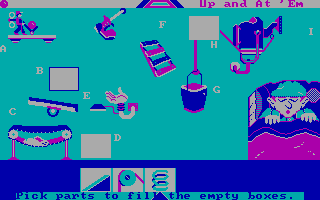
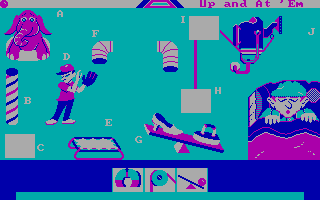
Layar bermain 64.000/64.000 lewat JALUR PEMAIN, dan kocokan ganda dibuang
Uji layar bermain kini menjalankan `main.Game` + `key()` seperti pemain
sungguhan (aturan kerja no. 7), bukan hanya merender dari modul inti:

  SELURUH LAYAR (modul inti)   64.000/64.000
  SELURUH LAYAR (jalur pemain) 64.000/64.000

⭐ BUG yang ketahuan karena jalur pemain diuji: `start_play()` mengocok palet
DUA KALI. Sesudah `pick.palet_mekanisme()` melakukan kocokan gim (dgn RNG
gim), masih ada `random.shuffle(self.palette)` peninggalan lama -- urutan yang
sudah benar diacak lagi dengan RNG Python.

Terukur: dgn seed gim 0x0e45 di titik `mkpal`, kocokan gim memberi record
[26, 2, 17]; sesudah kocokan Python jadi [17, 26, 2], dan strip meleset 738
piksel. Jalur "modul inti" tidak bisa melihatnya karena ia tidak lewat
main.py sama sekali.

BARIS PESAN -- posisinya kini DIKONFIRMASI, bukan diterka. `prompts()`
menulis seluruh pesannya di baris yang sama dengan strip cyan yang
dibersihkan `setupscr()`:
    text(S_ULANG, 0x10, 0xc0, 2)  text(S_COBA, 0x28, 0xc0, 2)  ...
jadi y = 0xc0, x mulai 0x10, WARNA 2 -- port dibetulkan dari warna 0.

Baru di work/emu.py: `CC_TRACEDOS=1` merekam keluaran teks DOS/BIOS
(INT 21h AH=02/09/40, INT 10h AH=0Eh/02h) plus histogram INT 21h per AH.
Bawaannya keluaran itu dibuang DIAM-DIAM. Hasil pengukuran: NOL peristiwa,
dan histogramnya hanya FCB I/O {0f, 10, 1a, 27} -- `printf` @0x6a48 tak pernah
terpanggil di jalur yang bisa dijangkau harness. Jadi pesan dalam permainan
belum bisa diadu piksel; posisinya diturunkan dari `prompts()`.
[…]

diff --git a/work/emu.py b/work/emu.py
@@ -89,6 +89,13 @@ def rdd(p): return struct.unpack_from("<I", bytes(uc.mem_read(p, 4)), 0)[0]
 def wrd(p, v): uc.mem_write(p, struct.pack("<I", v & 0xFFFFFFFF))
 
 state = {"int21": {}, "unhandled": [], "exit": False, "steps": 0}
+
+# CC_TRACEDOS=1 -- rekam keluaran teks DOS/BIOS (INT 21h AH=02/09/40,
+# INT 10h AH=0Eh/02h). Emulator ini TIDAK merender teks: glyph-nya datang dari
+# font ROM BIOS, yang tidak kita punya. Yang bisa diukur adalah ISI dan POSISI
+# KURSOR-nya, dan itu cukup untuk menentukan di mana pesan permainan muncul.
+_TDOS = os.environ.get("CC_TRACEDOS") == "1"
+_tdos_log = []
 keyq = []            # antrian byte keyboard (0x08 read)
 draws = []           # log: (major, minor, w, h, screen_x, screen_y)
 DGROUP = LOAD_SEG + 0x907
@@ -119,6 +126,11 @@ def hook_intr(uc, intno, user):
         state["exit"] = True; uc.emu_stop(); return
     if intno == 0x21:
         state["int21"][ah] = state["int21"].get(ah, 0) + 1
+        if _TDOS and ah == 0x40:            # write ke handle (stdout = 1)
+            _a = uc.reg_read(UC_X86_REG_DS) * 16 + uc.reg_read(UC_X86_REG_DX)
+            _n = uc.reg_read(UC_X86_REG_CX)
+            _tdos_log.append(("tulis_h%d" % uc.reg_read(UC_X86_REG_BX),
+                              bytes(uc.mem_read(_a, min(_n, 200))).decode("latin-1")))
         if ah == 0x4C:
             state["exit"] = True; uc.emu_stop(); return
         if ah == 0x30:  # DOS version
@@ -232,12 +244,35 @@ def hook_intr(uc, intno, user):
             wrd(p + 0x21, blk * 128 + cur)
             return
         if ah in (0x25, 0x35, 0x44, 0x09, 0x02, 0x48, 0x49, 0x4A, 0x19, 0x2C, 0x16):
+            # CC_TRACEDOS=1 -- catat KELUARAN TEKS DOS. Bawaannya dibuang diam-
+            # diam, dan itu membuat pesan dalam permainan (yang keluar lewat
+            # `printf()` MC.LIB) tak pernah terlihat di tangkapan VRAM. Kita
+            # tetap tidak MERENDER-nya (butuh font ROM BIOS yang tidak kita
+            # punya), tapi apa yang dicetak dan ke mana kursornya menunjuk bisa
+            # diukur.
+            if _TDOS and ah in (0x09, 0x02):
+                if ah == 0x02:
+                    _tdos_log.append(("chr", chr(uc.reg_read(UC_X86_REG_DX) & 0xFF)))
+                else:
+                    _a = uc.reg_read(UC_X86_REG_DS) * 16 + uc.reg_read(UC_X86_REG_DX)
+                    _b = bytes(uc.mem_read(_a, 200))
+                    _b = _b[:_b.find(b"$")] if b"$" in _b else _b
+                    _tdos_log.append(("str", _b.decode("latin-1")))
             uc.reg_write(UC_X86_REG_EFLAGS, uc.reg_read(UC_X86_REG_EFLAGS) & ~1)
             if ah == 0x48: uc.reg_write(UC_X86_REG_AX, 0x2000)
             return
         uc.reg_write(UC_X86_REG_EFLAGS, uc.reg_read(UC_X86_REG_EFLAGS) & ~1)
         return
     if intno == 0x10:
+        if _TDOS:
+            if ah == 0x0E:      # teletype: SATU karakter di posisi kursor
+                _tdos_log.append(("tty", chr(ax & 0xFF)))
+            elif ah == 0x02:    # set posisi kursor: DH = baris, DL = kolom
+                _dx = uc.reg_read(UC_X86_REG_DX)
+                _tdos_log.append(("kursor", (_dx >> 8, _dx & 0xFF)))
+            elif ah == 0x09 or ah == 0x0A:
+                _tdos_log.append(("tulis%d" % (uc.reg_read(UC_X86_REG_CX)),
+                                  chr(ax & 0xFF)))
         return
     if intno == 0x16:
         # keyboard: kembalikan ENTER agar maju
@@ -1223,3 +1258,19 @@ for k, pts in sorted(byptr.items(), key=lambda kv: -len(set(kv[1]))):
     uniq = list(dict.fromkeys(pts))
     if len(uniq) >= 4:
         print("  sptr=0x%04x w=%d h=%d  n=%d uniq=%d  %s" % (k[0], k[1], k[2], len(pts), len(uniq), uniq[:12]))
+
+if _TDOS:
+    # Ringkas: karakter tunggal berurutan digabung jadi satu baris supaya
+    # keluarannya terbaca.
+    print("INT 21h per AH:", {"%02x" % k: v for k, v in sorted(state["int21"].items())})
+    print("KELUARAN TEKS DOS/BIOS (%d peristiwa):" % len(_tdos_log))
+    _buf = ""
+    for _k, _v in _tdos_log:
+        if _k in ("chr", "tty"):
+            _buf += _v
+            continue
+        if _buf:
+            print("  teks: %r" % _buf); _buf = ""
+        print("  %-8s %r" % (_k, _v))
+    if _buf:
+        print("  teks: %r" % _buf)

diff --git a/work/test_play.py b/work/test_play.py
@@ -36,6 +36,7 @@ import os
 import subprocess
 import sys
 
+os.environ.setdefault("SDL_VIDEODRIVER", "dummy")
 sys.path.insert(0, os.path.join(os.path.dirname(__file__), "..", "port"))
 
 from PIL import Image                                          # noqa: E402
@@ -109,6 +110,51 @@ def cek(nama, dapat, harap):
     print("  %-34s %7s/%-7s %s" % (nama, dapat, harap, "OK" if ok else "GAGAL"))
 
 
+def uji_interaktif(ref, seed, lastgoal, lastvar, sel):
+    """Jalur PEMAIN SUNGGUHAN: main.Game + key(), bukan hanya modul inti.
+
+    Aturan kerja proyek ini menuntut uji lewat jalur user, bukan cuma render
+    headless dari pustaka. Di sini `main.Game` dinavigasi dengan tombol persis
+    seperti pemain, lalu hasil `draw()`-nya diadu dgn VRAM gim.
+
+    Tiga keadaan disamakan lebih dulu, dan ketiganya keadaan yang MEMANG
+    berubah menurut waktu / interaksi -- bukan aturan menggambar:
+      * `cur_slot = -1`  -> kotak sorotan `drawbox()` di fase padam (ia XOR,
+        jadi tangkapan gim bisa menangkapnya menyala atau tidak);
+      * `message = ""`   -> tangkapan gim diambil sebelum pesan apa pun;
+      * `cur_part = sel` -> jendela strip berpusat di pilihan yang sama.
+    Penunjuk strip yang berkedip juga dimatikan: pada tangkapan itu ia sedang
+    padam.
+    """
+    import pygame
+    from cc import assets, cga
+    from cc.core import palet as _pal
+    import main as portmain
+
+    pygame.init()
+    asli = _pal.penunjuk
+    _pal.penunjuk = lambda *a, **k: None
+    try:
+        g = portmain.Game(assets.find_data_dir())
+        g.rng_seed, g.lastgoal, g.lastvar = seed, lastgoal, lastvar
+        g.key(pygame.K_RETURN)                 # TITLE -> MENU
+        g.key(pygame.K_DOWN)                   # sel 1 = Fill in Mechanisms
+        g.key(pygame.K_RETURN)                 # -> LEVEL
+        g.key(pygame.K_RETURN)                 # Apprentice -> GOAL
+        g.sel = g.goal_ids.index(GOAL)
+        g.key(pygame.K_RETURN)                 # -> PLAY
+        g.cur_slot, g.message, g.cur_part = -1, "", sel
+        fb = cga.make_framebuffer()
+        g.draw(fb)
+        beda = sum(1 for y in range(200) for x in range(320)
+                   if PALET[fb.get_at((x, y))[:3]] != ref[y][x])
+        pygame.image.save(fb, os.path.join(AKAR, "work", "play_port.png"))
+    finally:
+        _pal.penunjuk = asli
+        pygame.quit()
+    return 64000 - beda, 64000
+
+
 def main(folder):
     g = Archive(D + "/GRAPH")
     m = Archive(D + "/MECHS")
@@ -170,7 +216,10 @@ def main(folder):
         ok += n - d
     cek("kotak slot KOSONG (drawslot)", ok, tot)
     a, b = wilayah(0, 199)
-    cek("SELURUH LAYAR", a, b)
+    cek("SELURUH LAYAR (modul inti)", a, b)
+
+    a, b = uji_interaktif(ref, seed, lastgoal, lastvar, sel)
+    cek("SELURUH LAYAR (jalur pemain)", a, b)
 
     print("\n%s" % ("LAYAR BERMAIN IDENTIK DENGAN GAME ASLI" if not gagal
                     else "GAGAL: %s" % ", ".join(gagal)))

diff --git a/port/main.py b/port/main.py
@@ -658,8 +658,17 @@ class Game:
                         rec = self.graph.first_of_major(s["correct"])
                         idx = rec["idx"] if rec else -1
                     self.palette.append(("Zany Object", (s["correct"],), "GRAPH", idx))
-        # KOCOK palet acak tiap load (spt Fisher-Yates FUN_1000_3909), termasuk pengecoh
-        random.shuffle(self.palette)
+        # ⚠ DIBUANG: dulu di sini ada `random.shuffle(self.palette)` dengan
+        # komentar "spt Fisher-Yates FUN_1000_3909". Kocokannya sekarang
+        # dikerjakan `pick.palet_mekanisme()` DENGAN RNG GIM, jadi kocokan
+        # kedua ini justru MERUSAKNYA -- urutan yang sudah benar diacak lagi.
+        # Terukur: dgn seed gim, mkpal memberi record [26, 2, 17]; sesudah
+        # kocokan Python jadi [17, 26, 2], dan strip meleset 738 piksel.
+        #
+        # Entri ZANY di bawahnya mengikuti urutan slot. Di gim kandidat zany
+        # tidak muncul di strip sama sekali -- ia berputar DI DALAM kotak lewat
+        # `pickvar()` -- jadi urutannya belum pernah diadu; jangan dikocok
+        # sembarangan hanya supaya "terlihat acak".
         self.fixed_archs = () if fill == "both" else \
             (("GRAPH",) if fill == "mech" else ("MECHS",))
         self.part_word = "Object" if fill == "zany" else "Part"
@@ -818,12 +827,22 @@ class Game:
         # yaitu SATU baris 8 piksel selebar 36 karakter. Dan pesan pembuka gim
         # "Pick parts to fill the empty boxes." panjangnya tepat 35 karakter.
         #
-        # ⚠ BELUM TERUKUR. Pesan di gim keluar lewat `printf()` (0x6a48, dari
-        # MC.LIB) dan emulator kami tidak merender keluaran teks DOS, jadi
-        # posisi ini DITURUNKAN dari `setupscr.c`, bukan diadu piksel. Yang
-        # sudah pasti: menaruhnya di pita atas SALAH.
+        # ⭐ DIKONFIRMASI dari sumber byte-exact, bukan diterka: `prompts()`
+        # menulis SELURUH pesannya di baris itu juga --
+        #     text(S_ULANG,  0x10, 0xc0, 2)
+        #     text(S_COBA,   0x28, 0xc0, 2)
+        #     text(S_TERUS4, 0x38, 0xc0, 2)
+        # y = 0xc0 dan x mulai 0x10, WARNA 2. Jadi baris pesan gim memang di
+        # sana, dan warnanya magenta -- bukan 0 seperti tebakan pertama.
+        #
+        # ⚠ Yang masih belum bisa diukur: pesan DALAM permainan ("Part A does
+        # not work.") keluar lewat `printf()` @0x6a48 dari MC.LIB. Emulator
+        # dilengkapi `CC_TRACEDOS=1` untuk merekam keluaran teks DOS/BIOS, dan
+        # hasilnya NOL peristiwa -- `printf` memang tak pernah terpanggil di
+        # jalur yang bisa dijangkau harness. Jadi posisinya diturunkan dari
+        # `prompts()`, yang menulis di baris yang sama.
         if self.message:
-            k.teks(self.message[:36], 0x10, 0xC0, 0)
+            k.teks(self.message[:36], 0x10, 0xC0, 2)
 
     def _palette_strip(self, fb):
         """Strip pemilih part -- `drawpal()` gim asli, lewat cc/core/palet.py.
